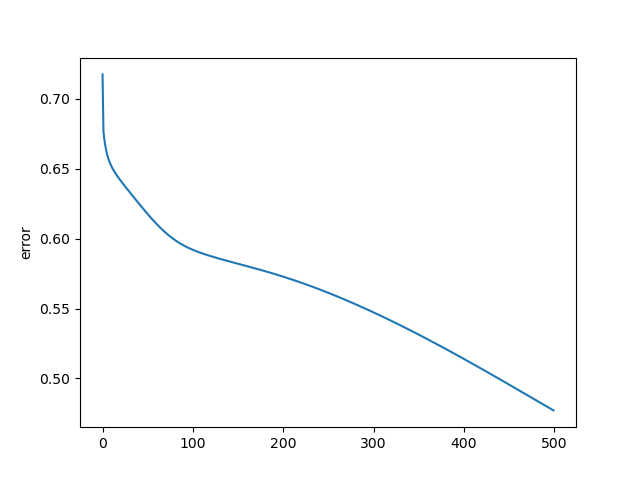
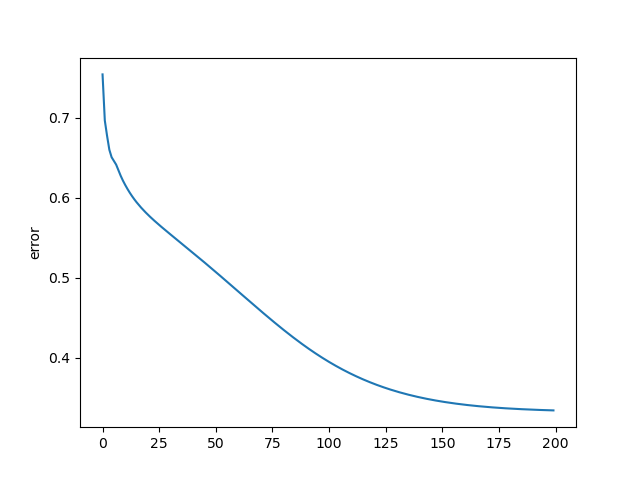
adam seems to work for Iris. Better than SGD for 200 epochs. More experiments needed.

diff --git a/fnn.py b/fnn.py
@@ -80,7 +80,7 @@ class Network:
 		self.hid_delta = np.zeros(self.Top[1] ) # output of first hidden layer
 		self.out_delta = np.zeros(self.Top[2]) #  output last layer
 
-		adam_learnrate = 0.01
+		adam_learnrate = 0.05
 
 		self.adam_outlayer = Adam(adam_learnrate, 0.9, 0.999)  #learningrate=0.001, b1=0.9, b2=0.999
 		self.adam_hidlayer = Adam(adam_learnrate, 0.9, 0.999)  #learningrate=0.001, b1=0.9, b2=0.999
@@ -242,8 +242,8 @@ class Network:
 
 
 		
-		print(self.BestW1, 'W1')
-		print(self.BestW2, ' W2')
+		#print(self.BestW1, 'W1')
+		#print(self.BestW2, ' W2')
 
 		return (Er,bestmse, bestTrain, epoch) 
 
@@ -272,7 +272,7 @@ def main():
 		learnRate = 0.1  
 		TrainData  = normalisedata(TrDat, Input, Output) 
 		TestData  = normalisedata(TesDat, Input, Output)
-		MaxTime = 500 #500
+		MaxTime = 200 #500
 
 
 		 
@@ -286,7 +286,7 @@ def main():
 		TrSamples =  TrainData.shape[0]
 		TestSize = TestData.shape[0]
 		learnRate = 0.9 
-		MaxTime = 100 #1000
+		MaxTime = 200 #1000
 
 	elif problem == 3:
 		TrainData = np.loadtxt("data/xor.csv", delimiter=',') #  XOR  problem
@@ -302,7 +302,7 @@ def main():
 
 
 	Topo = [Input, Hidden, Output] 
-	MaxRun = 1 # number of experimental runs 
+	MaxRun = 10 # number of experimental runs 
 	 
 	MinCriteria = 95 #stop when learn 95 percent
 
